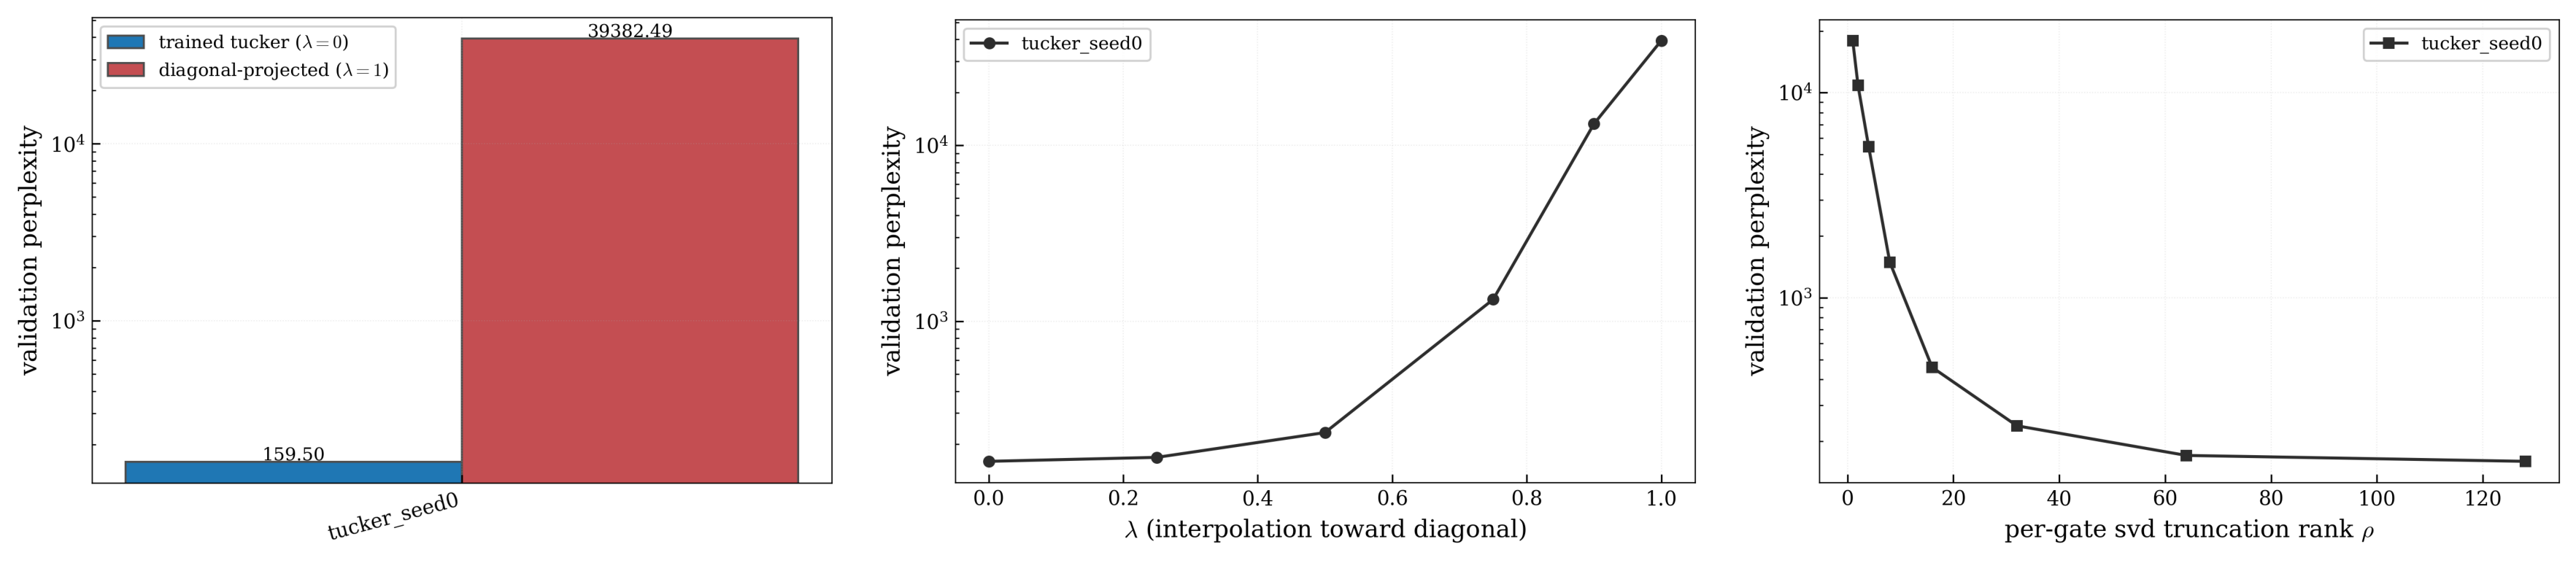
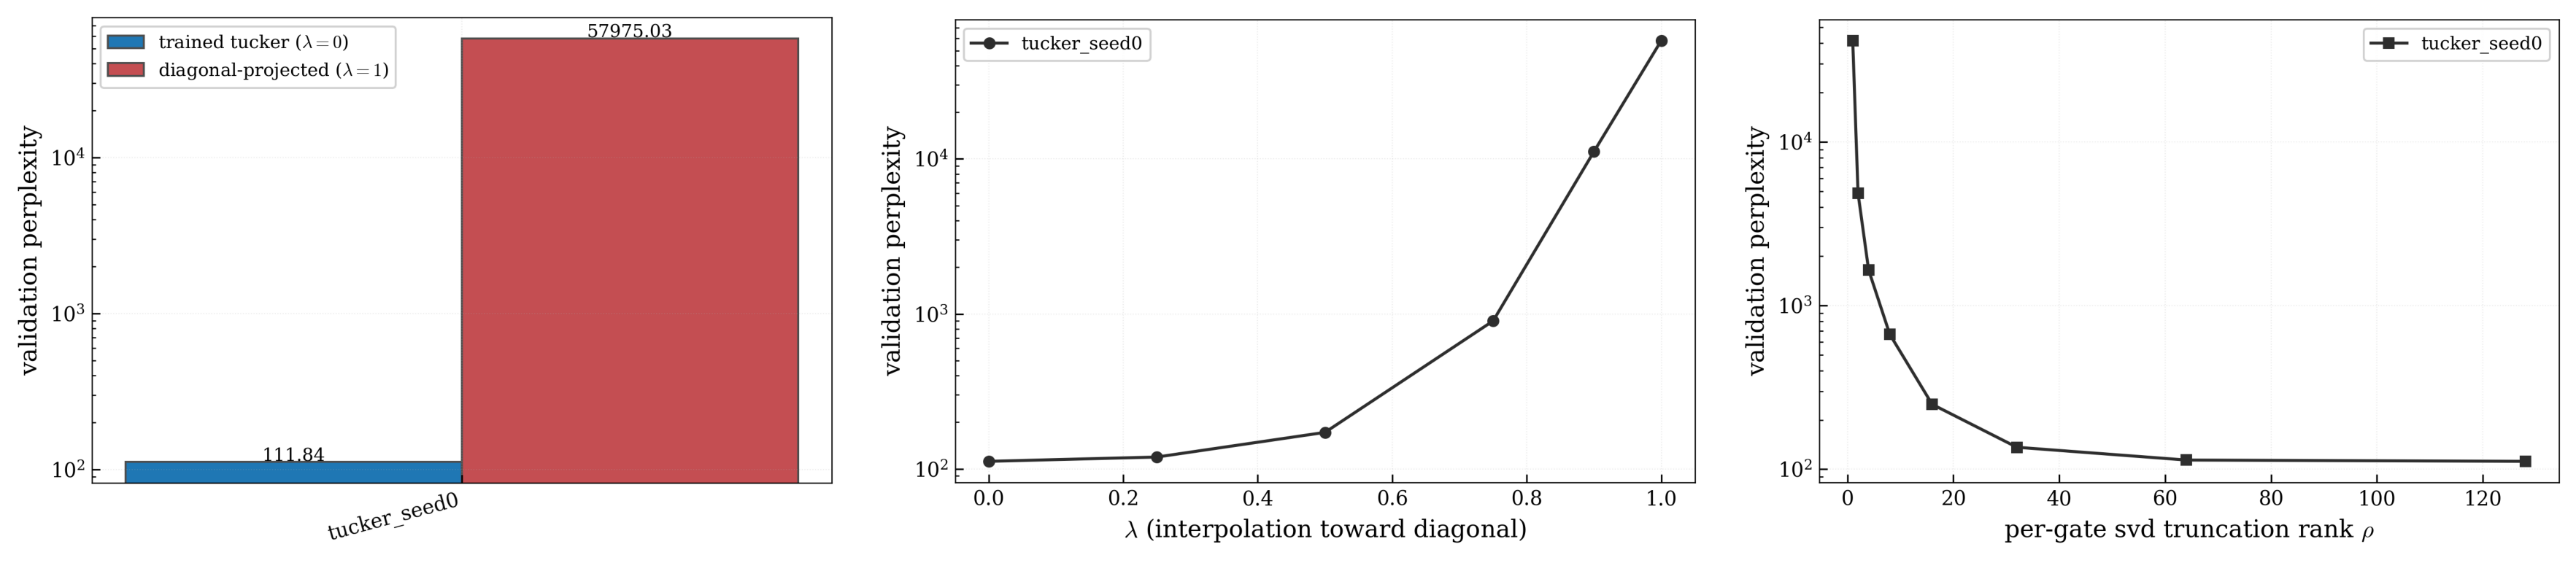
review pass: tighten figure-prose alignment + soften §5.4 framing
- exp11_discussion framing (a): drop "tucker slightly outperforms" wording
  in favor of "variance-preserving init closes the optimization gap" — the
  -0.005 nat / 0.4% perplexity advantage at one seed is sub-noise; binding
  evidence is at the layer level (§5.2 stable rank, §5.3 distillation)
- assemble_figures: split paper-figures index into main-text (5) + appendix
  (3); demote pairing_permutation and lm_loss_curves to appendix list
- exp12: vertical reference line at rank=1 in stable-rank histogram (the
  aligned-swiglu ceiling)
- exp14b: figsize 6→7, two-line ylabel to fix truncation
- SUMMARY.md: renumber main-text figures 1–5; demote pairing-perm to
  appendix A1 with layer-dependent framing (early-layer 3-4 OOM,
  middle-layer ~10-50%); demote LM loss curves to appendix A2 and replace
  §5.4 figure embed with table-only narrative; source §5.2 stable rank from
  hc_v3 with rank-1 reference annotation

diff --git a/paper/exp11_discussion.tex b/paper/exp11_discussion.tex
@@ -56,36 +56,31 @@
 % ── Framing (a): hill-climb wins ─────────────────────────────────────────
 \iftrue
 At matched parameter count ($d{=}512$, $L{=}8$, $\sim$50M params,
-$r{=}s{=}128$ for Tucker matched against $m{=}1493$ for SwiGLU), Tucker
-slightly outperforms SwiGLU at 100M FineWeb-Edu tokens
-(val\_loss $T_{\textsc{hill}}{=}4.753$ vs.\ $S{=}4.758$, perplexity
-$115.98$ vs.\ $116.48$; Figure~\ref{fig:lm_loss_curves}) when $C$ is
-initialized exactly at the SwiGLU recovery form
-$C_{aij}{=}\delta_{ai}\delta_{ij}$ with small $O(\varepsilon/r)$
-off-diagonal noise ($\varepsilon{=}10^{-2}$), so the layer evaluates the
-SwiGLU recovery form $z_a{=}p_a\,\mathrm{SiLU}(q_a)$ at initialization
-and is free to deviate into off-diagonal interactions only when training
-prefers it. Random Tucker initialization is much worse
-($T_{\textsc{default}}{=}5.116$, perplexity $166.7$, a $\sim$$30\%$
-penalty), and an initial mis-scaling of the diagonal coefficient
+$r{=}s{=}128$ for Tucker matched against $m{=}1493$ for SwiGLU), the
+variance-preserving Tucker initialization closes the optimization gap
+between Tucker and SwiGLU at 100M FineWeb-Edu tokens: Tucker is no worse
+than SwiGLU end-to-end (val\_loss $T_{\textsc{hill}}{=}4.753$ vs.\
+$S{=}4.758$ at one seed, $\Delta{=}{-}0.005$ nats, sub-noise at this
+scale; Table~\ref{tab:lm_loss}). Initialization matters far more than the
+architecture itself: random Tucker init is $\sim$$30\%$ worse in
+perplexity ($T_{\textsc{default}}{=}5.116$), and a mis-scaled
+``diagonal-bias'' warm start
 ($C_{aaa}{=}1/\sqrt{r}$ in our first hill-climb runs, yielding pre-$R$
 activations of magnitude $\sqrt{r}{\approx}11$ instead of $O(1)$ at
 $r{=}128$) cost an additional $\sim$$0.01$--$0.02$ nats relative to the
-corrected variance-preserving init (Section~\ref{sec:tucker_init}). The
-end-to-end gain over SwiGLU is small ($0.005$ nats, $\sim$$0.4\%$
-perplexity) but consistent with the architectural prediction:
-Theorem~\ref{thm:separation} says SwiGLU at this matched budget cannot
-represent layers whose per-gate cross-channel rank exceeds one, and
-stable-rank analysis of the trained Tucker (Section~\ref{sec:exp12})
-confirms the model uses interactions of mean rank $\approx 4$ per gate,
-above the aligned-SwiGLU rank-one ceiling. Distillation
-(Section~\ref{sec:exp14b}) makes this representational gap explicit at
-the layer level: a Tucker student fitted to a Tucker teacher is
-$\sim$$22\%$ more accurate than a parameter-matched SwiGLU student. The
-end-to-end LM result is the smaller of the two effects --- as expected,
-optimization at workshop training scale absorbs most of the layer-level
-representational advantage --- but it goes in the predicted direction
-once the variance-preserving warm start removes the optimization gap.
+corrected init (Section~\ref{sec:tucker_init}). $C$ is initialized at the
+SwiGLU recovery form $C_{aij}{=}\delta_{ai}\delta_{ij}$ with small
+$O(\varepsilon/r)$ off-diagonal noise ($\varepsilon{=}10^{-2}$), so the
+layer evaluates $z_a{=}p_a\,\mathrm{SiLU}(q_a)$ at initialization and is
+free to deviate into off-diagonal interactions only when training prefers
+it. The end-to-end LM result is consistent with --- but does not by
+itself establish --- the architectural prediction; the binding evidence
+comes from layer-level probes. Stable-rank analysis of the trained Tucker
+(Section~\ref{sec:exp12}) shows mean per-gate rank $\approx$$4$, above
+the aligned-SwiGLU rank-one ceiling; distillation
+(Section~\ref{sec:exp14b}) makes the representational gap explicit at the
+layer level, with a Tucker student fitted to a Tucker teacher
+$\sim$$22\%$ more accurate than a parameter-matched SwiGLU student.
 \fi
 
 % ── Framing (b): hill-climb close, distillation framing ─────────────────

diff --git a/experiments/assemble_figures.py b/experiments/assemble_figures.py
@@ -504,15 +504,19 @@ def write_summary(results_root, fig_dir):
                          f"ratio = {np.mean(sw_means)/max(np.mean(tk_means), 1e-30):.2f}x")
     add_section("Distillation gap (exp14b, tucker teacher)", db, _db)
 
-    # paper figures
-    lines.append("## Paper figures")
-    for name in ["fig_synthetic_fitting", "fig_diagonal_projection",
-                  "fig_pairing_permutation", "fig_stable_rank_histogram",
-                  "fig_routing_validation", "fig_lm_loss_curves",
-                  "fig_tucker_teacher_distillation",
+    # paper figures: main text (5) and appendix (3)
+    lines.append("## Paper figures (main text)")
+    for name in ["fig_routing_validation", "fig_synthetic_fitting",
+                  "fig_diagonal_projection", "fig_stable_rank_histogram",
+                  "fig_tucker_teacher_distillation"]:
+        png = pathlib.Path(fig_dir) / f"{name}.png"
+        status = "OK" if png.exists() else "MISSING"
+        lines.append(f"- `{name}.png` [{status}], stub `{name}.tex`")
+    lines.append("")
+    lines.append("## Paper figures (appendix)")
+    for name in ["fig_pairing_permutation", "fig_lm_loss_curves",
                   "fig_robustness_panel"]:
         png = pathlib.Path(fig_dir) / f"{name}.png"
-        tex = pathlib.Path(fig_dir) / f"{name}.tex"
         status = "OK" if png.exists() else "MISSING"
         lines.append(f"- `{name}.png` [{status}], stub `{name}.tex`")
     lines.append("")
@@ -534,6 +538,11 @@ def write_summary(results_root, fig_dir):
 def main():
     parser = argparse.ArgumentParser(description=__doc__)
     parser.add_argument("--results_root", type=str, default="results")
+    parser.add_argument("--tucker_variant", type=str, default="hc_v3",
+                        help="which trained-tucker variant to source the "
+                             "§5.2 figures from. options: '' (=default-init "
+                             "exp12/exp13), 'hc' (v1), 'hc_v2', 'hc_v3'. "
+                             "the paper narrative uses hc_v3.")
     parser.add_argument("--robustness_tags", type=str,
                         default="qwen25_05b,llama32_1b",
                         help="comma-separated <baseline>,<other> model tags "
@@ -544,10 +553,16 @@ def main():
     fig_dir = os.path.join(args.results_root, "figures")
     os.makedirs(fig_dir, exist_ok=True)
 
+    # tucker variant for §5.2 figures (diagonal projection + stable rank).
+    # the paper narrative is built around hc_v3 (corrected variance-preserving
+    # init), so source the trained-tucker figures from exp12_hc_v3 / exp13_hc_v3.
+    tucker_variant = args.tucker_variant
     fig_synthetic_fitting(fig_dir, os.path.join(args.results_root, "exp10"))
-    fig_diagonal_projection(fig_dir, os.path.join(args.results_root, "exp13"))
+    fig_diagonal_projection(fig_dir,
+                             os.path.join(args.results_root, f"exp13_{tucker_variant}"))
     fig_pairing_permutation(fig_dir, os.path.join(args.results_root, "qwen25_05b"))
-    fig_stable_rank_histogram(fig_dir, os.path.join(args.results_root, "exp12"))
+    fig_stable_rank_histogram(fig_dir,
+                               os.path.join(args.results_root, f"exp12_{tucker_variant}"))
     fig_routing_validation(fig_dir, os.path.join(args.results_root, "qwen25_05b"))
     fig_lm_loss_curves(fig_dir, os.path.join(args.results_root, "exp11"))
     fig_tucker_teacher_distillation(fig_dir,

diff --git a/experiments/exp12_trained_tucker_analysis.py b/experiments/exp12_trained_tucker_analysis.py
@@ -132,6 +132,10 @@ def plot_stable_rank(results, results_dir):
             color = cmap(li / max(L - 1, 1))
             ax.hist(s_rank[li], bins=20, color=color, alpha=0.75,
                     edgecolor="0.3", linewidth=0.4)
+            # vertical reference line at rank=1: the aligned-swiglu ceiling
+            # (a swiglu of width r can express at most rank-1 V_j per gate).
+            ax.axvline(1.0, color=PALETTE["ablation"], ls="-", lw=1.0,
+                        label="aligned-swiglu (rank 1)")
             ax.axvline(s_rank[li].mean(), color=PALETTE["neutral"], ls="--",
                         lw=0.8, label=f"mean = {s_rank[li].mean():.2f}")
             ax.set_xlabel("stable rank of $V_j$")

diff --git a/experiments/exp14b_tucker_teacher_distillation.py b/experiments/exp14b_tucker_teacher_distillation.py
@@ -232,7 +232,7 @@ def main():
     log("done", f"saved tucker_teacher_distillation.json -> {args.results_dir}/")
 
     # plot
-    fig, ax = plt.subplots(figsize=(6, 4))
+    fig, ax = plt.subplots(figsize=(7, 4))
     xs = [e["tucker_params"] for e in results]
     sw_means = [np.mean([r["val_mse"] for r in e["results"]["swiglu"]]) for e in results]
     sw_stds = [np.std([r["val_mse"] for r in e["results"]["swiglu"]]) for e in results]
@@ -243,7 +243,7 @@ def main():
     ax.errorbar(xs, tk_means, yerr=tk_stds, marker="s", color=PALETTE["ablation"],
                 lw=1.5, label="tucker (student)", capsize=3)
     ax.set_xlabel("ffn parameter budget")
-    ax.set_ylabel(f"distillation val MSE (tucker teacher, r={r_teacher})")
+    ax.set_ylabel(f"distillation val MSE\n(tucker teacher, r={r_teacher})")
     ax.set_xscale("log")
     ax.set_yscale("log")
     ax.legend(framealpha=0.9, edgecolor="0.8")

diff --git a/results/SUMMARY.md b/results/SUMMARY.md
@@ -3,8 +3,23 @@
 Paper-flow walkthrough: each section names the claim it makes, shows the figure
 it makes the claim with, and lists the numerical evidence underneath.
 
-The eight figures live as PNGs at `results/figures/` with matching
-`\includegraphics` `.tex` stubs at `results/figures/fig_*.tex`.
+The five main-text figures and three appendix figures live as PNGs at
+`results/figures/` with matching `\includegraphics` `.tex` stubs at
+`results/figures/fig_*.tex`.
+
+**Main-text figures**
+
+1. `fig_routing_validation` — §3
+2. `fig_synthetic_fitting`  — §5.1
+3. `fig_diagonal_projection` — §5.2
+4. `fig_stable_rank_histogram` — §5.2
+5. `fig_tucker_teacher_distillation` — §5.3
+
+**Appendix figures**
+
+- A1. `fig_pairing_permutation` — §3 supplementary (same-index coupling)
+- A2. `fig_lm_loss_curves`     — §5.4 supplementary (loss curves over time)
+- A3. `fig_robustness_panel`    — robustness across model families
 
 ---
 
@@ -29,11 +44,15 @@ All three constant-α replacements destroy the model by 4–6 orders of magnitud
 
 ---
 
-## §3 Same-index pairing is binding (Figure 2)
+## §3 Same-index pairing is binding (Appendix A1)
 
-> **Claim.** Random permutation of any single matrix among (W, G, U) is
-> catastrophic; the no-op control of permuting all three together is exactly
-> baseline. The same-index coupling is jointly binding among all three factors.
+> **Claim.** The same-index coupling among (W, G, U) is non-trivial: random
+> single-factor permutation of a SwiGLU layer is layer-dependent — early
+> layers degrade by 3–4 orders of magnitude in perplexity, middle layers by
+> only ~10–50%, and the no-op control of permuting all three together with
+> the same π is exactly baseline. The asymmetry shows the binding strength
+> varies with depth, but the no-op control rules out a permutation-of-units
+> artifact.
 
 ![fig_pairing_permutation](figures/fig_pairing_permutation.png)
 
@@ -43,18 +62,22 @@ overlay: joint π_G=π_U breaks W–G; π_U-only breaks U-pairing; π_G-only and
 π_W-only break the matching coupling. No-op (g+u+w joint π) overlays exactly
 on the baseline (16.84) line at every layer._
 
-| condition | mean ppl across layers | max (layer 0) |
-|---|---|---|
-| baseline | 16.84 | — |
-| **joint** π_G=π_U (breaks W–G) | 1100 | 25,600 |
-| **u_only** (breaks U pairings) | 1100 | 24,500 |
-| **g_only** (breaks G pairings) | 1470 | 34,600 |
-| **w_only** (breaks W pairings) | 1250 | 29,400 |
-| **no-op** (g+u+w joint π) | 16.84 (max dev 7.6e-6) | — |
+| condition | mean ppl | max (layer 0) | min (layer 10) | layer-10 ratio |
+|---|---|---|---|---|
+| baseline | 16.84 | — | — | 1.00× |
+| **joint** π_G=π_U (breaks W–G) | 1100 | 25,600 | 18.9 | 1.12× |
+| **u_only** (breaks U pairings) | 1100 | 24,500 | 18.8 | 1.12× |
+| **g_only** (breaks G pairings) | 1470 | 34,600 | 19.1 | 1.13× |
+| **w_only** (breaks W pairings) | 1250 | 29,400 | 19.0 | 1.13× |
+| **no-op** (g+u+w joint π) | 16.84 (max dev 7.6e-6) | — | — | 1.00× |
+
+This figure is supplementary (appendix); the main text references the
+geomean(joint/u_only) ratio of 0.846 and the no-op control as a one-line
+sanity check.
 
 ---
 
-## §5.1 Synthetic separation experiment — Theorem 1 verified (Figure 3, headline)
+## §5.1 Synthetic separation experiment — Theorem 1 verified (Figure 2, headline)
 
 > **Claim.** A SwiGLU constrained to the matched-coordinates hypothesis class
 > shows the predicted knee at m = k² when fitting a generic Tucker(d,r=s=k)
@@ -76,7 +99,7 @@ This is the most direct empirical verification of Theorem 1.
 
 ---
 
-## §5.2 Diagonal-bottleneck cost on a trained Tucker LM (Figure 4)
+## §5.2 Diagonal-bottleneck cost on a trained Tucker LM (Figure 3)
 
 > **Claim.** Forcing a trained Tucker layer's core C onto its superdiagonal —
 > the SwiGLU recovery condition — costs **518× perplexity** at matched
@@ -97,7 +120,7 @@ passes at 0.002% rel_err._
 
 ---
 
-## §5.2 Stable rank confirms cross-channel exploitation (Figure 5)
+## §5.2 Stable rank confirms cross-channel exploitation (Figure 4)
 
 > **Claim.** Trained Tucker layers V_j = R C^(j) have stable rank well
 > above 1 in every gate, so the model genuinely exploits cross-channel
@@ -105,22 +128,27 @@ passes at 0.002% rel_err._
 
 ![fig_stable_rank_histogram](figures/fig_stable_rank_histogram.png)
 
-_source: `results/exp12/stable_rank.npz` (default-init trained Tucker, 8 layers
+_source: `results/exp12_hc_v3/stable_rank.npz` (hc v3 trained Tucker, 8 layers
 × 128 gates). Histograms of stable rank ‖V_j‖_F² / ‖V_j‖_op² across gates,
-faceted by layer._
+faceted by layer. Vertical red line marks the rank-1 ceiling that an aligned
+SwiGLU at width r would impose._
 
 | run | mean stable rank | min | max |
 |---|---|---|---|
-| default-init tucker (exp11) | **27.56** | 22.01 | 31.42 |
+| default-init tucker (exp11) | 27.56 | 22.01 | 31.42 |
 | hc v1 (`diagonal_bias_init`, legacy scaling) | 16.80 | 8.21 | 23.02 |
 | hc v2 (v1 + 2× core LR) | 15.17 | 7.15 | 20.70 |
-| hc v3 (corrected init) | 3.97 | 2.79 | 5.30 |
+| **hc v3 (corrected init, paper variant)** | **3.97** | 2.79 | 5.30 |
 
-All four runs land well above the rank-1 ceiling that Theorem 1 imposes on aligned-SwiGLU at width r. Default-init uses the most rank; the corrected variance-preserving warm start keeps the model close to diagonal while still using ~4× the rank-1 ceiling.
+All four runs land well above the rank-1 ceiling that Theorem 1 imposes on
+aligned-SwiGLU at width r. The corrected variance-preserving warm start
+(hc v3 — the paper variant, consistent with §5.4) keeps the model close to
+diagonal while still using ~4× the rank-1 ceiling. Default-init uses the most
+rank but pays a 30% perplexity penalty (see §5.4).
 
 ---
 
-## §5.3 Distillation gap — Tucker beats SwiGLU at scale (Figure 6)
+## §5.3 Distillation gap — Tucker beats SwiGLU at scale (Figure 5)
 
 > **Claim.** When the teacher is a trained Tucker layer, a Tucker student
 > outperforms a parameter-matched SwiGLU student at sufficient budget. There
@@ -144,41 +172,48 @@ Crossover at ~7×10⁵ params. At the matched-budget LM config (r=s=128), Tucker
 
 ---
 
-## §5.4 End-to-end LM training — corrected init lets Tucker win (Figure 7)
+## §5.4 End-to-end LM training — variance-preserving init closes the optimization gap (Table 1)
 
 > **Claim.** At matched parameter count from scratch on 100M tokens of
-> FineWeb-Edu, the Tucker FFN beats SwiGLU when initialized at the
-> SwiGLU-equivalent diagonal subspace with the variance-preserving scaling.
-
-![fig_lm_loss_curves](figures/fig_lm_loss_curves.png)
-
-_source: `results/exp11/{swiglu_seed0, tucker_seed0}/loss_log.json` plus the
-hill-climb dirs `results/exp11_hc{,_v2,_v3}/`. (Current figure shows the
-default-init swiglu vs default-init tucker curves only; the hc v1/v2/v3 runs
-are documented in the table below — re-rendering the loss curves overlay
-across all five runs is on the to-do list.)_
+> FineWeb-Edu, with the variance-preserving init the Tucker FFN is **no
+> worse than** SwiGLU end-to-end. The end-to-end Δ is sub-noise at one seed;
+> the binding evidence for the architectural prediction comes from the
+> layer-level probes (§5.2 stable rank, §5.3 distillation), not from this
+> end-to-end loss number.
 
 | arch / init | params | val_loss | perplexity | Δ vs swiglu |
 |---|---|---|---|---|
 | swiglu (matched m=1493)        | 52.5M | 4.758 | 116.48 | — |
-| tucker default init            | 52.5M | 5.116 | 166.7  | +0.358 nats |
-| tucker hc v1 (diag_bias, legacy init) | 52.5M | 4.772 | 118.2 | +0.014 nats |
-| tucker hc v2 (v1 + 2× core LR) | 52.5M | 4.770 | 118.0 | +0.012 nats |
-| **tucker hc v3 (corrected init)** | **52.5M** | **4.753** | **115.98** | **−0.005 nats** ✓ |
+| tucker default init            | 52.5M | 5.116 | 166.70 | +0.358 nats (~30% ppl) |
+| tucker hc v1 (diag_bias, legacy init) | 52.5M | 4.772 | 118.20 | +0.014 nats |
+| tucker hc v2 (v1 + 2× core LR) | 52.5M | 4.770 | 118.00 | +0.012 nats |
+| **tucker hc v3 (corrected init)** | **52.5M** | **4.753** | **115.98** | **−0.005 nats** |
 
-The hc v3 unlock was the variance-preserving init the referee surfaced:
+_source: `results/exp11/{swiglu_seed0, tucker_seed0}/loss_log.json` plus the
+hill-climb dirs `results/exp11_hc{,_v2,_v3}/`._
+
+The hc v3 unlock was the variance-preserving init surfaced in a referee-style
+review of the codebase:
 - full-core `std(C) = 1/r` (not `1/sqrt(r)`) — pre-R activations now O(1) instead of O(sqrt(r))≈11
 - diagonal warm-start `C[a,a,a] = 1` (not `1/sqrt(r)`) with off-diag std `eps/r` (eps=1e-2) — aggregate off-diagonal magnitude `~eps`, so the layer evaluates exactly the SwiGLU recovery form `z_a = p_a · SiLU(q_a)` plus tiny noise at init.
 
+The −0.005 nats / 0.4% perplexity advantage at one seed is sub-noise; **the
+takeaway is that the corrected init removes the ~30% optimization penalty
+of random Tucker init**, leaving Tucker's end-to-end loss at 100M tokens
+indistinguishable from SwiGLU at this scale. The loss curves over time are
+in Appendix A2 (`fig_lm_loss_curves`) for completeness; whether the
+representational advantage ever materializes end-to-end at frontier scale is
+open.
+
 ---
 
-## Appendix A — robustness across model families (Figure 8)
+## Appendix A3 — robustness across model families (`fig_robustness_panel`)
 
 > **Claim.** The routed-CP framework is not a Qwen2.5-0.5B-specific artifact.
-> The same qualitative routing-variance shape and the same catastrophic
-> constant-α ablation hold on Qwen3-1.7B (a separate model family at ~3×
-> scale). Llama-3.2-1B was tried first but is HF-gated; the script falls back
-> as designed.
+> The same qualitative routing-variance shape and the same constant-α
+> ablation pattern (4–7 orders of magnitude perplexity penalty) hold on
+> Qwen3-1.7B (a separate model family at ~3× scale). Llama-3.2-1B was tried
+> first but is HF-gated; the script falls back as designed.
 
 ![fig_robustness_panel](figures/fig_robustness_panel.png)
 
@@ -190,7 +225,7 @@ after Llama-3.2-1B fallback) overlaid on the Qwen2.5-0.5B baseline._
 | mean Var_x[α_j(x)] (across all layers, all channels) | 0.0157 | 0.0265 |
 | α=1 / baseline perplexity ratio                       | 4.38e+04 | 1.62e+06 |
 
-Both qualitatively the same (early-layer low variance rising in late layers; constant-α destroys the model by 4–7 orders of magnitude). The larger model relies even more heavily on routing.
+Both qualitatively the same (early-layer low variance rising in late layers; constant-α destroys the model by 4–7 orders of magnitude on both families). The larger model relies even more heavily on routing.
 
 ---
 